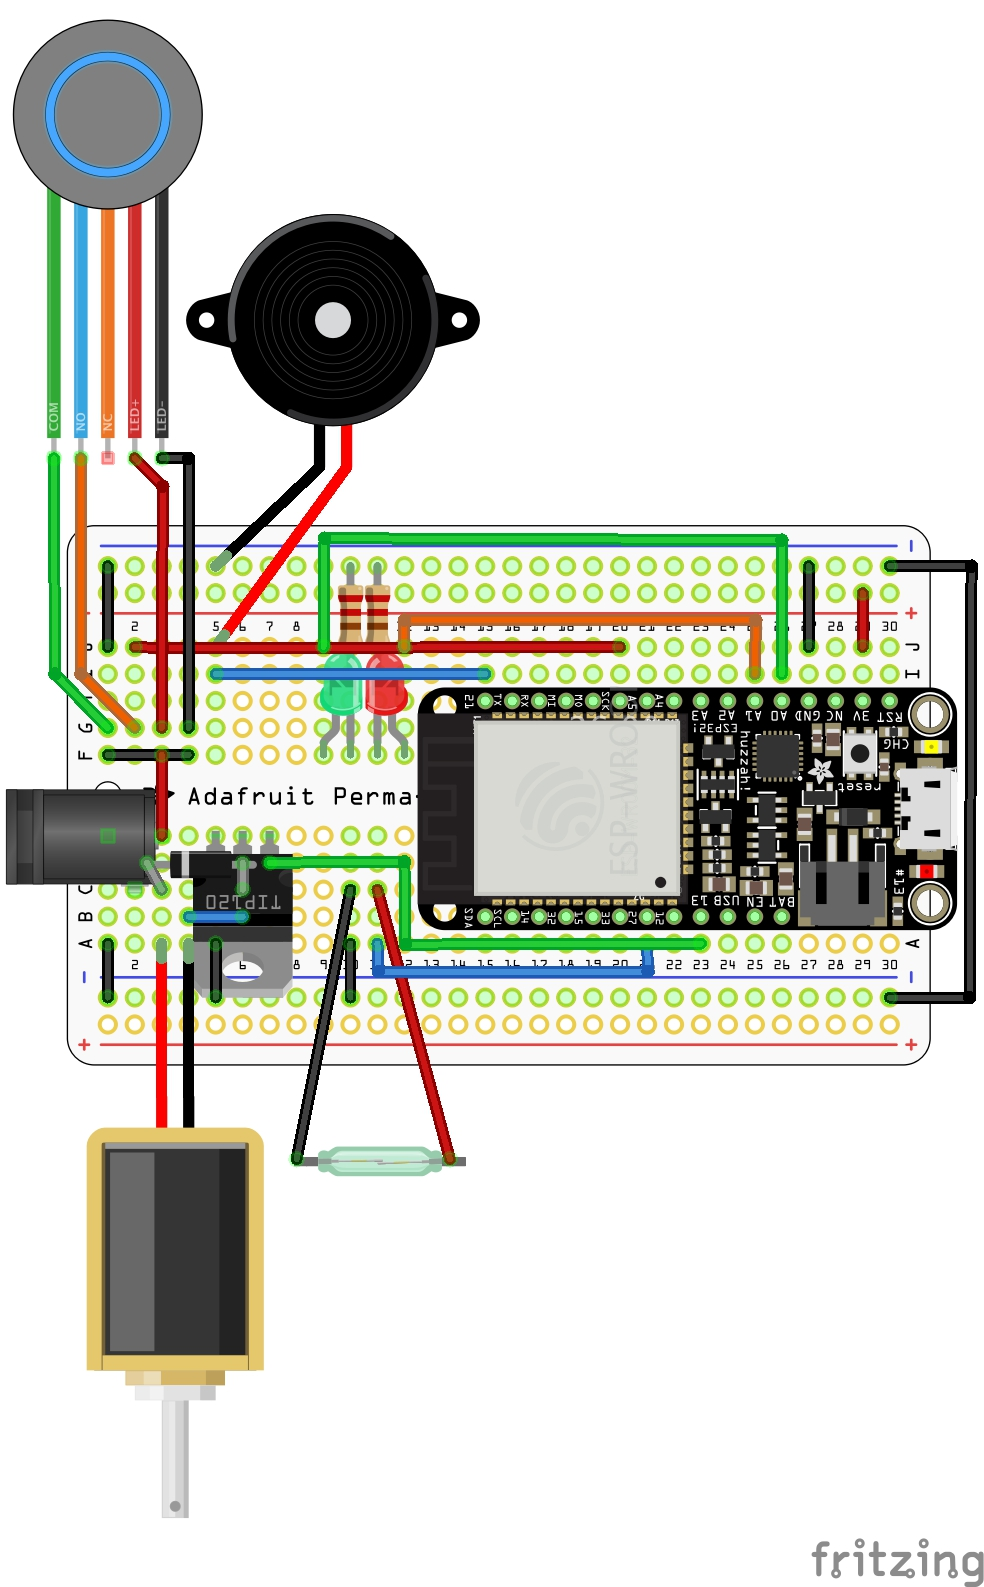
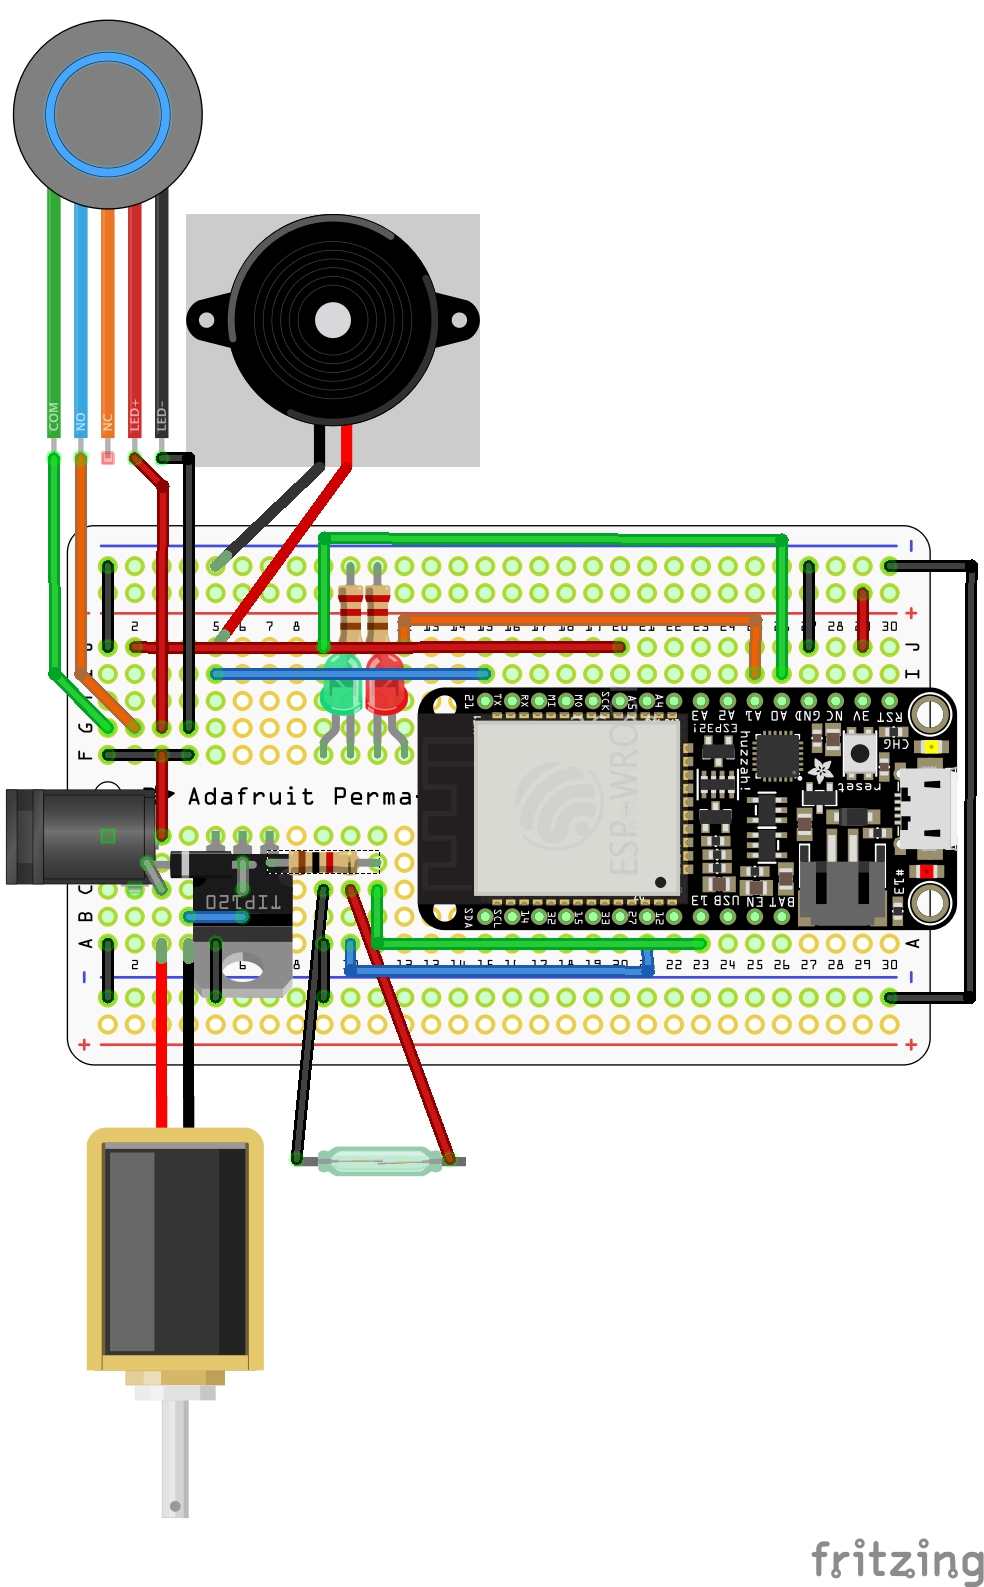
Document update

Changed region(s): [[0.1829, 0.1235, 0.4878, 0.4014], [0.2744, 0.5249, 0.4573, 0.741], [0.3963, 0.4014, 0.4268, 0.4323]]

diff --git a/README.md b/README.md
@@ -4,18 +4,18 @@ This is a sketch for IoT door lock using EPS32 microcontroller with Arduino IDE.
 Current I am using Adafruit HAZZAH32 Feather for development. I intend to switch to Espressif's ESP32 development board later for lower cost.
 
 ## Features
-1. Connect local Wi-Fi network with mDNS
-2. Lock and Unlock the lock by different way:
-  4. Push button
-  5. HTTP request (may be removed later)
-6. Relock after unlocked for 5 sec.
-7. Turn on green LED when unlocked
-8. Detect door opened with reed sensor. If opened, beep the buzzer and turn on red LED
-9. Delay auto relock when the door opened
-10. Resume auto relock when the door closed, with 1.5s delay for sensor bounce
+* Connect local Wi-Fi network with mDNS
+* Lock and Unlock the lock by different way:
+   *  Pushbutton
+   *  HTTP request (may be removed later)
+* Relock after unlocked for 5 sec.
+* Turn on green LED when unlocked
+* Detect door opened with reed sensor. If opened, beep the buzzer and turn on red LED
+* Delay auto relock when the door opened
+* Resume auto relock when the door closed, with 1.5s delay for sensor bounce
 
 ## Wiring
-![ESP32 IoT door lock wiring](https://github.com/mickey9801/eps32_iot_door_lock/blob/master/Door%20Lock%20Sketch_HAZZAH32.jpg?raw=true)
+<img height="550" src="https://raw.githubusercontent.com/mickey9801/eps32_iot_door_lock/master/Door%20Lock%20Sketch_HAZZAH32.jpg?sanitize=true&raw=true" alt="ESP32 IoT door lock wiring" />
 
 ## Parts List
 
@@ -28,6 +28,7 @@ Current I am using Adafruit HAZZAH32 Feather for development. I intend to switch
 * [TIP120 Power Darlington Transistors](https://www.adafruit.com/product/976)
 * [1N4001 Diode](https://www.adafruit.com/product/755)
 * [2.1mm DC barrel jack](https://www.adafruit.com/product/373)
+* 1kOhm resistor (not require if using MOSFET)
 
 ### Push Button Parts
 * [Pushbutton - Momentary](https://www.adafruit.com/product/481)
@@ -38,7 +39,7 @@ Current I am using Adafruit HAZZAH32 Feather for development. I intend to switch
 * 2 pin JST plug and socket
 
 ### LEDs
-* 220ohm resistor x2
+* 220Ohm resistor x2
 * Green and Red LED
 
 ### Others
